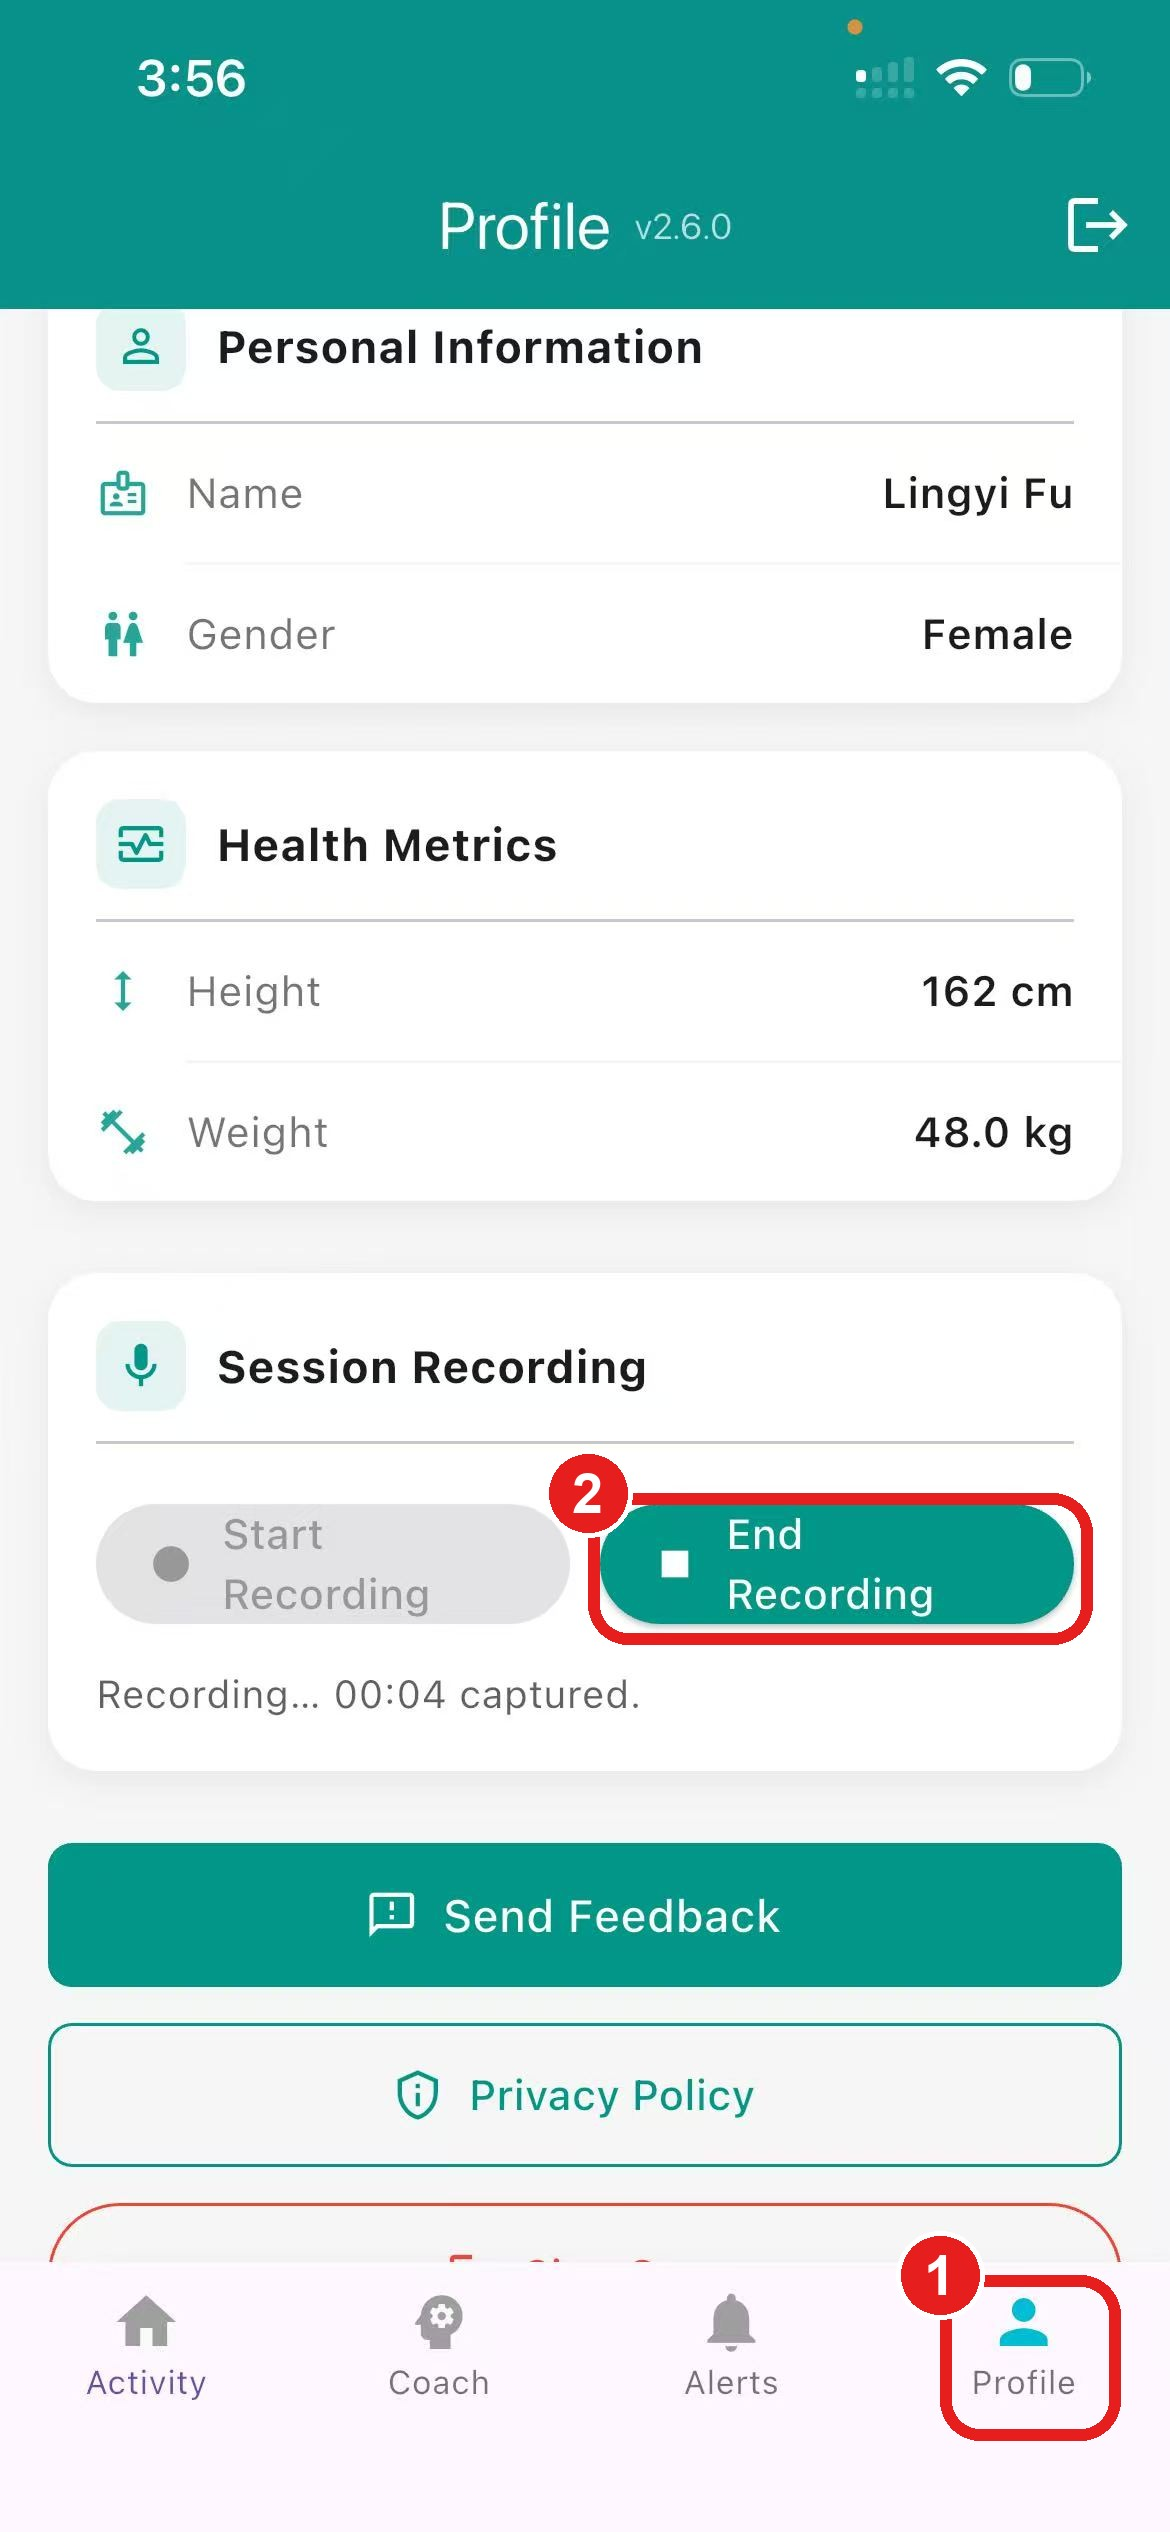
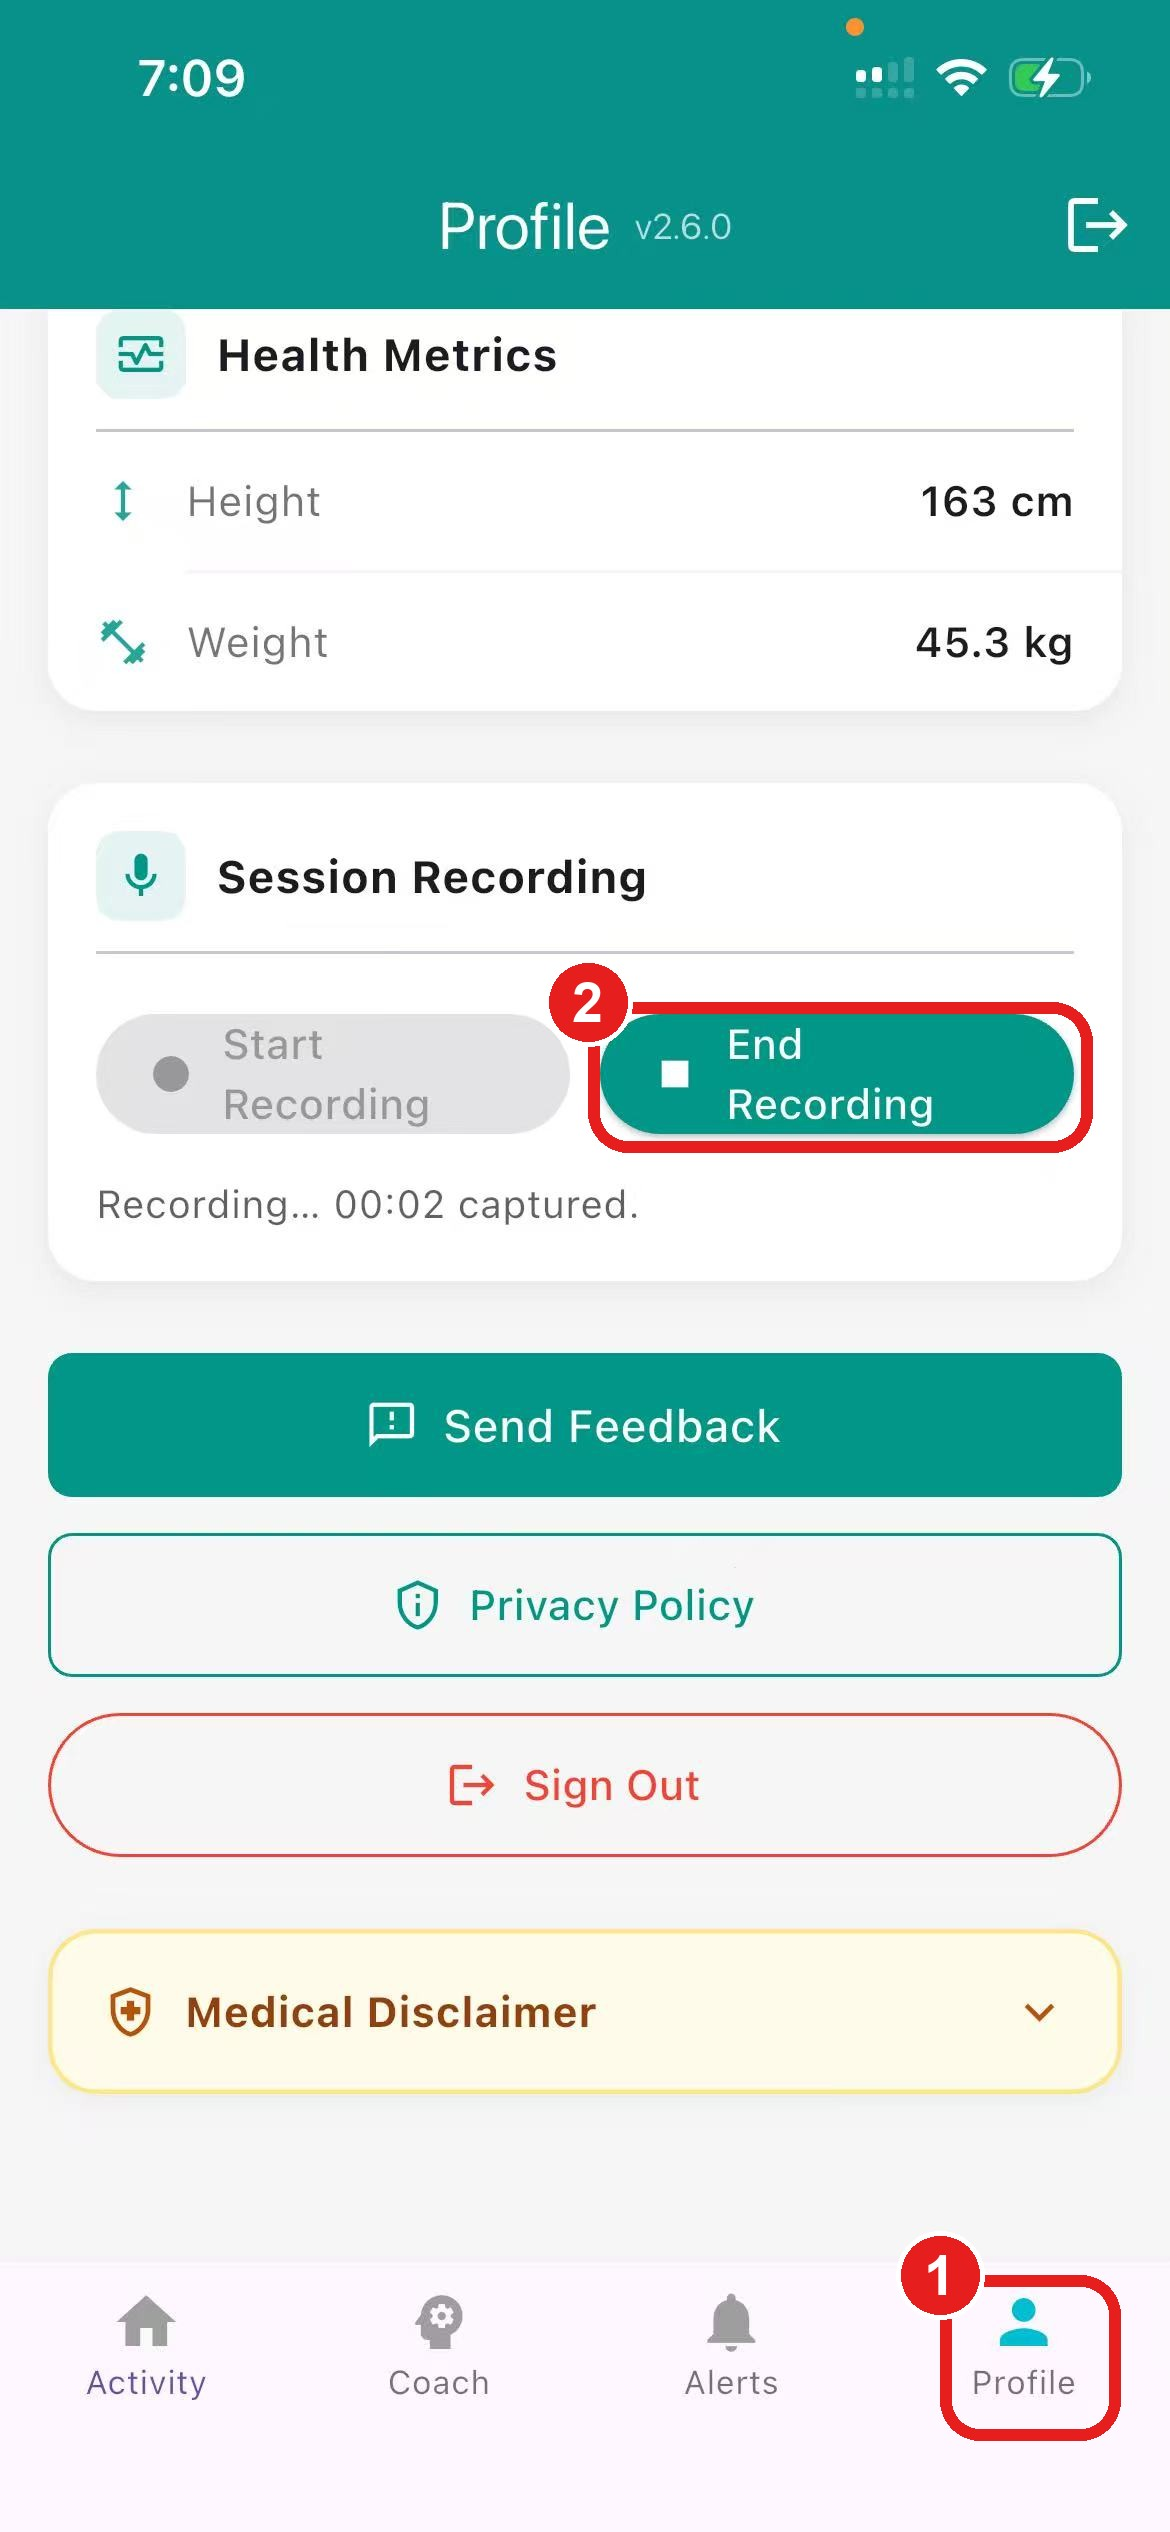
update the picutres

diff --git a/public/pa-chatbot_thinkaloud_follow_up/assets/test2-overview.md b/public/pa-chatbot_thinkaloud_follow_up/assets/test2-overview.md
@@ -4,27 +4,31 @@
 
 <div style="max-width: 820px; display: flex; gap: 14px; align-items: flex-start; background: #e7f5ff; border: 1px solid #a5d8ff; border-radius: 12px; padding: 16px 20px; margin-bottom: 28px; font-size: 17px; line-height: 1.6;">
   <span style="font-size: 26px; line-height: 1.2;">📅</span>
-  <div>In <strong>mid-January or early February</strong>, the team will reach out to you for <strong>Test 2</strong>. Test 2 is the <strong>same as Test 1</strong>: one virtual meeting and one follow-up testing session.</div>
+  <div>In <strong>mid-January or early February</strong>, the team will reach out to you for <strong>Test 2</strong>. Test 2 is the <strong>same as Test 1</strong>: one <strong>virtual meeting</strong> with the research team and one <strong>follow-up testing session</strong> that you complete <strong>on your own</strong>.</div>
 </div>
 
 ## Study Timeline
 
 <div style="max-width: 820px; display: grid; grid-template-columns: repeat(auto-fit, minmax(180px, 1fr)); gap: 12px; margin-bottom: 28px; font-size: 15px; line-height: 1.5;">
+  <div style="border: 1px solid #dee2e6; border-top: 6px solid #40c057; border-radius: 12px; padding: 14px 16px; background: #f8f9fa;">
+    <div style="font-size: 12px; font-weight: 700; white-space: nowrap; color: #2b8a3e; margin-bottom: 4px;">TEST 1 · DONE ✓</div>
+    <div style="font-weight: 700;">💻 Virtual meeting</div>
+    <div style="font-size: 13px; color: #868e96; margin-top: 2px;">With the research team</div>
+  </div>
   <div style="border: 1px solid #b2f2bb; border-top: 6px solid #40c057; border-radius: 12px; padding: 14px 16px; background: #ebfbee;">
     <div style="font-size: 12px; font-weight: 700; white-space: nowrap; color: #2b8a3e; margin-bottom: 4px;">TEST 1 · TODAY ✓</div>
-    <div style="font-weight: 700;">💻 Virtual meeting</div>
-  </div>
-  <div style="border: 1px solid #dee2e6; border-top: 6px solid #40c057; border-radius: 12px; padding: 14px 16px; background: #f8f9fa;">
-    <div style="font-size: 12px; font-weight: 700; white-space: nowrap; color: #2b8a3e; margin-bottom: 4px;">TEST 1 · ~7 DAYS LATER</div>
     <div style="font-weight: 700;">📱 Follow-up testing</div>
+    <div style="font-size: 13px; color: #868e96; margin-top: 2px;">On your own</div>
   </div>
   <div style="border: 1px solid #dee2e6; border-top: 6px solid #228be6; border-radius: 12px; padding: 14px 16px; background: #f8f9fa;">
     <div style="font-size: 12px; font-weight: 700; white-space: nowrap; color: #1864ab; margin-bottom: 4px;">TEST 2 · JAN – FEB</div>
     <div style="font-weight: 700;">💻 Virtual meeting</div>
+    <div style="font-size: 13px; color: #868e96; margin-top: 2px;">With the research team</div>
   </div>
   <div style="border: 1px solid #dee2e6; border-top: 6px solid #228be6; border-radius: 12px; padding: 14px 16px; background: #f8f9fa;">
     <div style="font-size: 12px; font-weight: 700; white-space: nowrap; color: #1864ab; margin-bottom: 4px;">TEST 2 · ~7 DAYS LATER</div>
     <div style="font-weight: 700;">📱 Follow-up testing</div>
+    <div style="font-size: 13px; color: #868e96; margin-top: 2px;">On your own</div>
   </div>
 </div>
 
@@ -33,11 +37,11 @@
 <div style="max-width: 820px; display: flex; flex-direction: column; gap: 16px; margin-bottom: 28px; font-size: 15px; line-height: 1.6;">
   <div style="border: 1px solid #dee2e6; border-left: 6px solid #228be6; border-radius: 12px; padding: 16px 20px; background: #f8f9fa;">
     <div style="font-weight: 700; font-size: 16px; color: #1864ab; margin-bottom: 8px;">💻 1. Virtual meeting</div>
-    <div>The same as today's session. The team will reach out to you in mid-January or early February to schedule it.</div>
+    <div>The same as your first virtual meeting with the research team. The team will reach out to you in mid-January or early February to schedule it.</div>
   </div>
   <div style="border: 1px solid #dee2e6; border-left: 6px solid #228be6; border-radius: 12px; padding: 16px 20px; background: #f8f9fa;">
     <div style="font-weight: 700; font-size: 16px; color: #1864ab; margin-bottom: 8px;">📱 2. Follow-up testing</div>
-    <div>The same as the Test 1 follow-up: test one coach, complete a survey, then test the other coach and complete another survey, while thinking aloud and recording.</div>
+    <div>The same as the Test 1 follow-up, completed on your own: test one coach, complete a survey, then test the other coach and complete another survey, while thinking aloud and recording.</div>
   </div>
 </div>
 

diff --git a/public/pa-chatbot_thinkaloud/assets/test2-overview.md b/public/pa-chatbot_thinkaloud/assets/test2-overview.md
@@ -3,7 +3,7 @@
 
 <div style="max-width: 820px; display: flex; gap: 14px; align-items: flex-start; background: #e7f5ff; border: 1px solid #a5d8ff; border-radius: 12px; padding: 16px 20px; margin-bottom: 28px; font-size: 17px; line-height: 1.6;">
   <span style="font-size: 26px; line-height: 1.2;">📅</span>
-  <div>In <strong>mid-January or early February</strong>, the team will reach out to you for <strong>Test 2</strong>. Test 2 is the <strong>same as Test 1</strong>: one virtual meeting and one follow-up testing session.</div>
+  <div>In <strong>mid-January or early February</strong>, the team will reach out to you for <strong>Test 2</strong>. Test 2 is the <strong>same as Test 1</strong>: one <strong>virtual meeting</strong> with the research team and one <strong>follow-up testing session</strong> that you complete <strong>on your own</strong>.</div>
 </div>
 
 ## Study Timeline
@@ -12,18 +12,22 @@
   <div style="border: 1px solid #b2f2bb; border-top: 6px solid #40c057; border-radius: 12px; padding: 14px 16px; background: #ebfbee;">
     <div style="font-size: 12px; font-weight: 700; white-space: nowrap; color: #2b8a3e; margin-bottom: 4px;">TEST 1 · TODAY ✓</div>
     <div style="font-weight: 700;">💻 Virtual meeting</div>
+    <div style="font-size: 13px; color: #868e96; margin-top: 2px;">With the research team</div>
   </div>
   <div style="border: 1px solid #dee2e6; border-top: 6px solid #40c057; border-radius: 12px; padding: 14px 16px; background: #f8f9fa;">
     <div style="font-size: 12px; font-weight: 700; white-space: nowrap; color: #2b8a3e; margin-bottom: 4px;">TEST 1 · ~7 DAYS LATER</div>
     <div style="font-weight: 700;">📱 Follow-up testing</div>
+    <div style="font-size: 13px; color: #868e96; margin-top: 2px;">On your own</div>
   </div>
   <div style="border: 1px solid #dee2e6; border-top: 6px solid #228be6; border-radius: 12px; padding: 14px 16px; background: #f8f9fa;">
     <div style="font-size: 12px; font-weight: 700; white-space: nowrap; color: #1864ab; margin-bottom: 4px;">TEST 2 · JAN – FEB</div>
     <div style="font-weight: 700;">💻 Virtual meeting</div>
+    <div style="font-size: 13px; color: #868e96; margin-top: 2px;">With the research team</div>
   </div>
   <div style="border: 1px solid #dee2e6; border-top: 6px solid #228be6; border-radius: 12px; padding: 14px 16px; background: #f8f9fa;">
     <div style="font-size: 12px; font-weight: 700; white-space: nowrap; color: #1864ab; margin-bottom: 4px;">TEST 2 · ~7 DAYS LATER</div>
     <div style="font-weight: 700;">📱 Follow-up testing</div>
+    <div style="font-size: 13px; color: #868e96; margin-top: 2px;">On your own</div>
   </div>
 </div>
 
@@ -32,11 +36,11 @@
 <div style="max-width: 820px; display: flex; flex-direction: column; gap: 16px; margin-bottom: 28px; font-size: 15px; line-height: 1.6;">
   <div style="border: 1px solid #dee2e6; border-left: 6px solid #228be6; border-radius: 12px; padding: 16px 20px; background: #f8f9fa;">
     <div style="font-weight: 700; font-size: 16px; color: #1864ab; margin-bottom: 8px;">💻 1. Virtual meeting</div>
-    <div>The same as today's session. The team will reach out to you in mid-January or early February to schedule it.</div>
+    <div>The same as today's session with the research team. The team will reach out to you in mid-January or early February to schedule it.</div>
   </div>
   <div style="border: 1px solid #dee2e6; border-left: 6px solid #228be6; border-radius: 12px; padding: 16px 20px; background: #f8f9fa;">
     <div style="font-weight: 700; font-size: 16px; color: #1864ab; margin-bottom: 8px;">📱 2. Follow-up testing</div>
-    <div>The same as the Test 1 follow-up: test one coach, complete a survey, then test the other coach and complete another survey, while thinking aloud and recording.</div>
+    <div>The same as the Test 1 follow-up, completed on your own: test one coach, complete a survey, then test the other coach and complete another survey, while thinking aloud and recording.</div>
   </div>
 </div>
 
